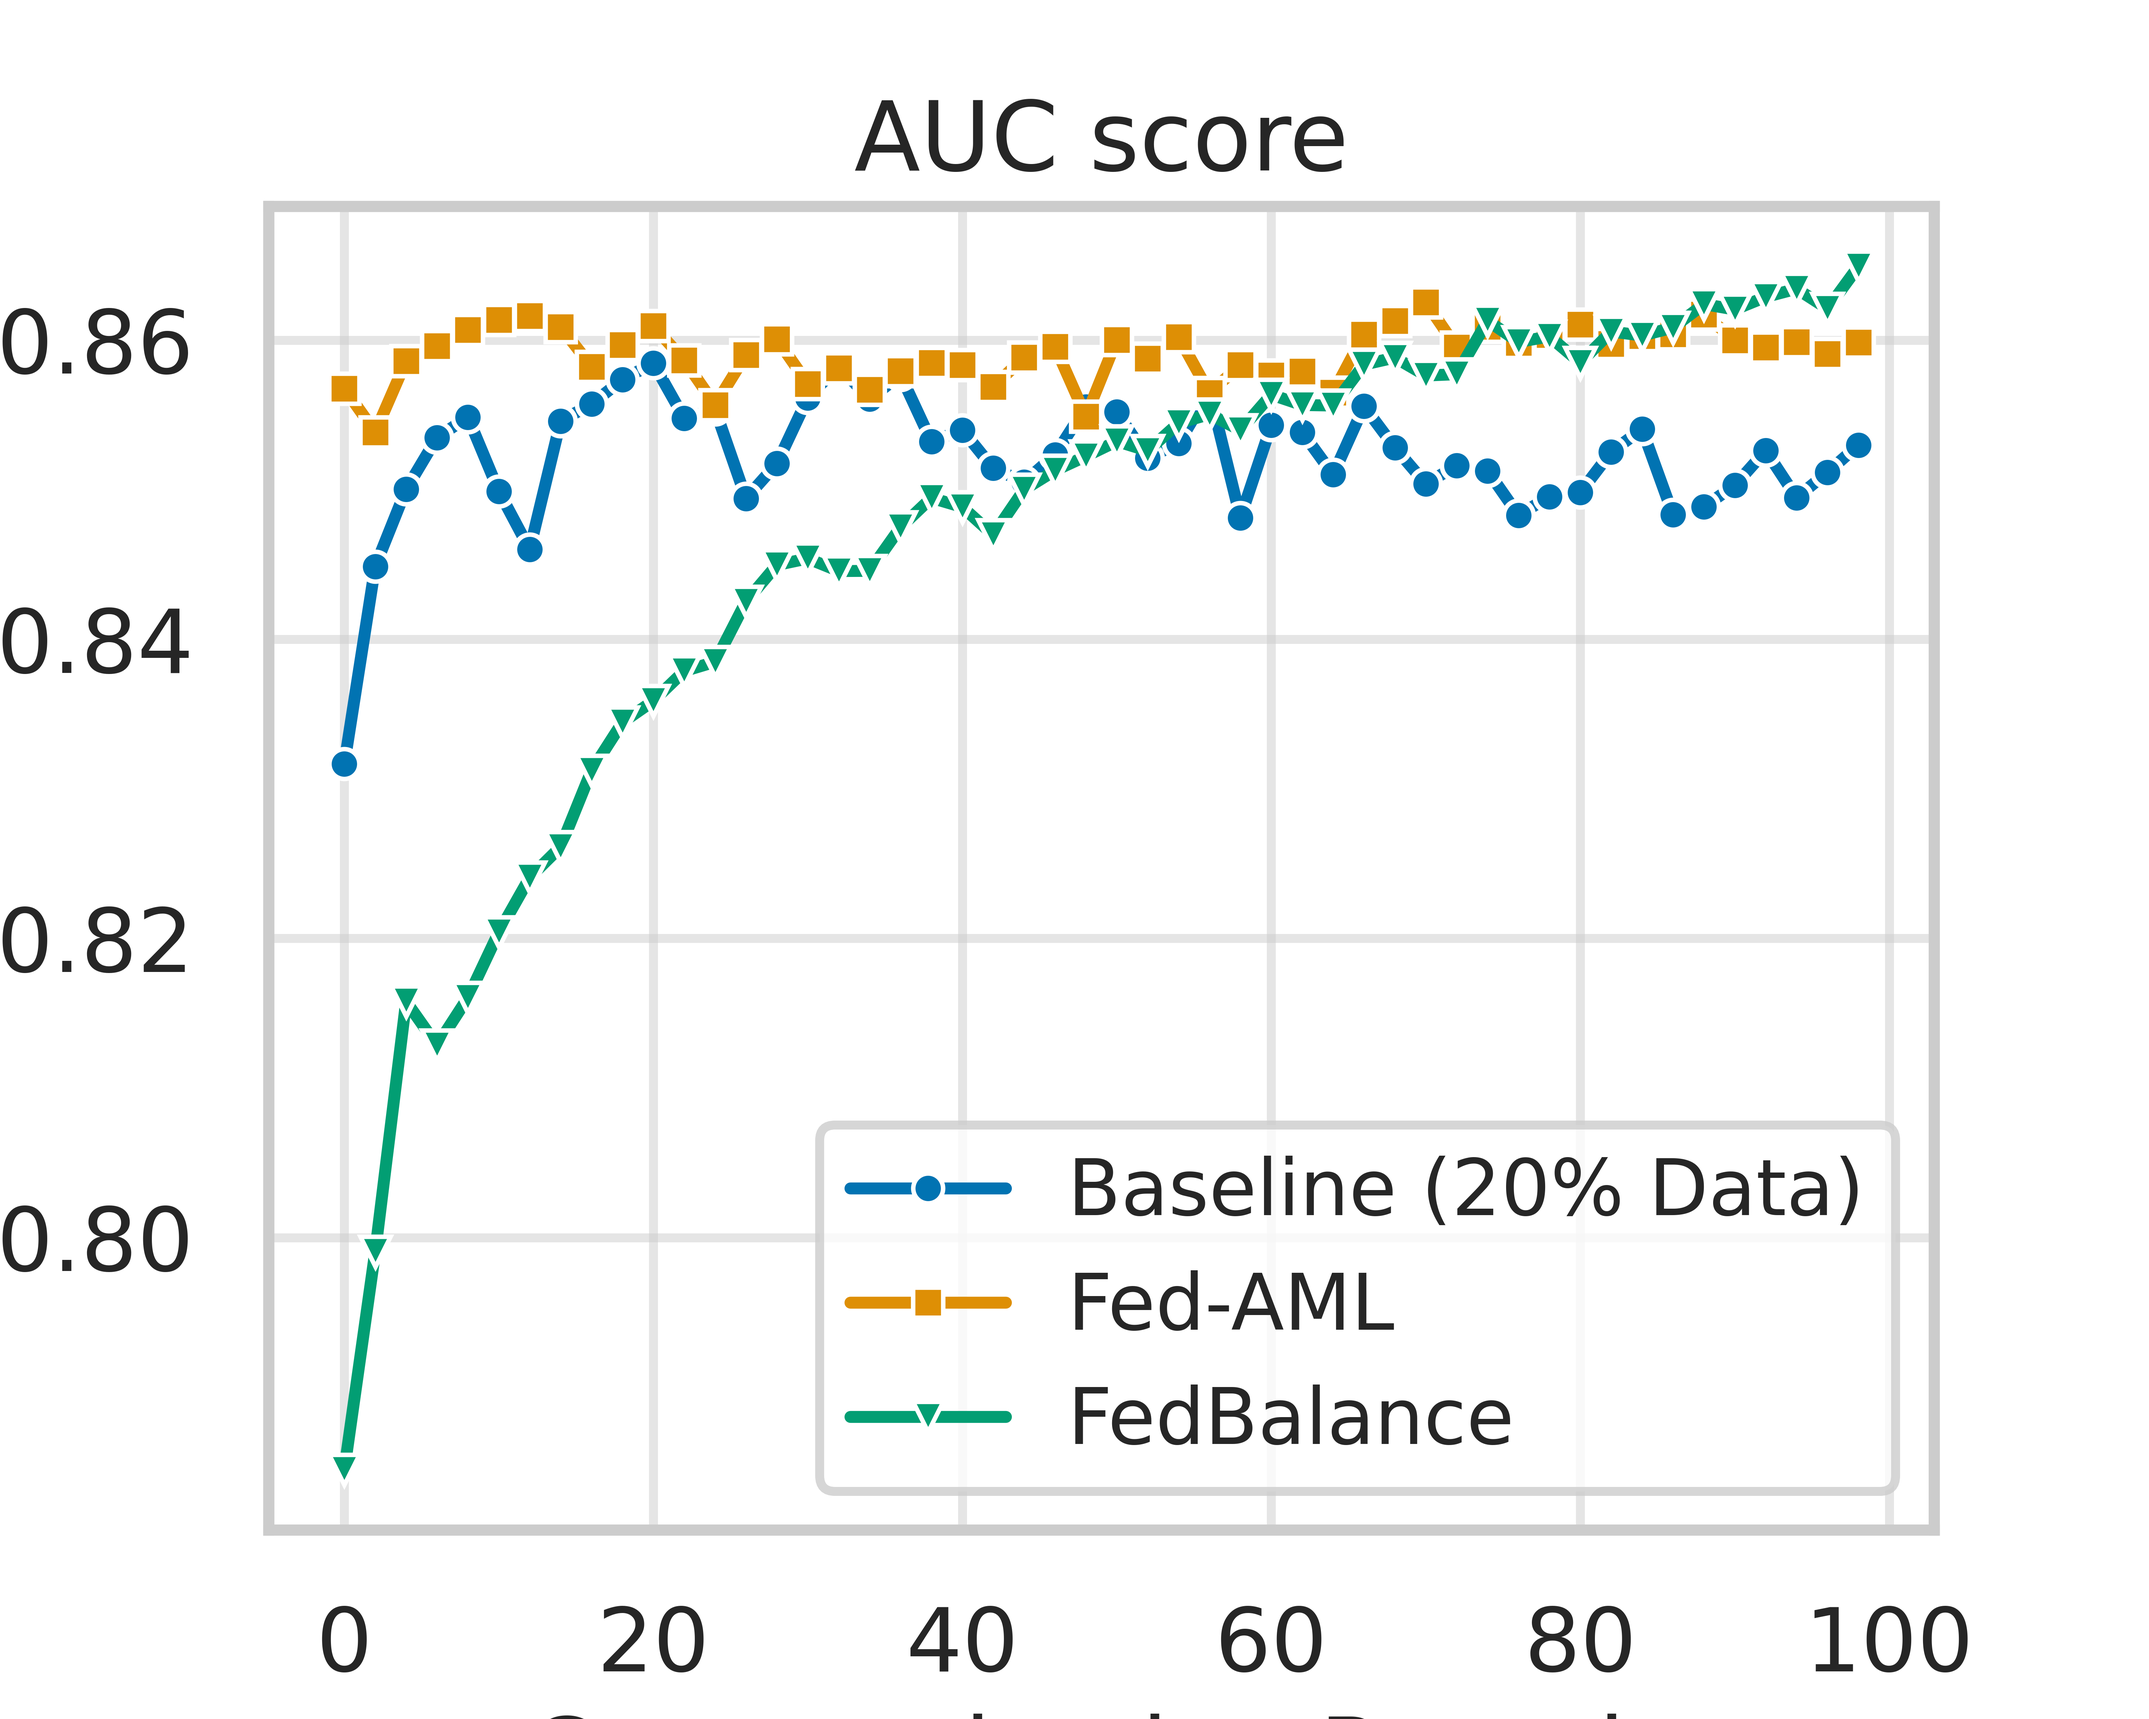
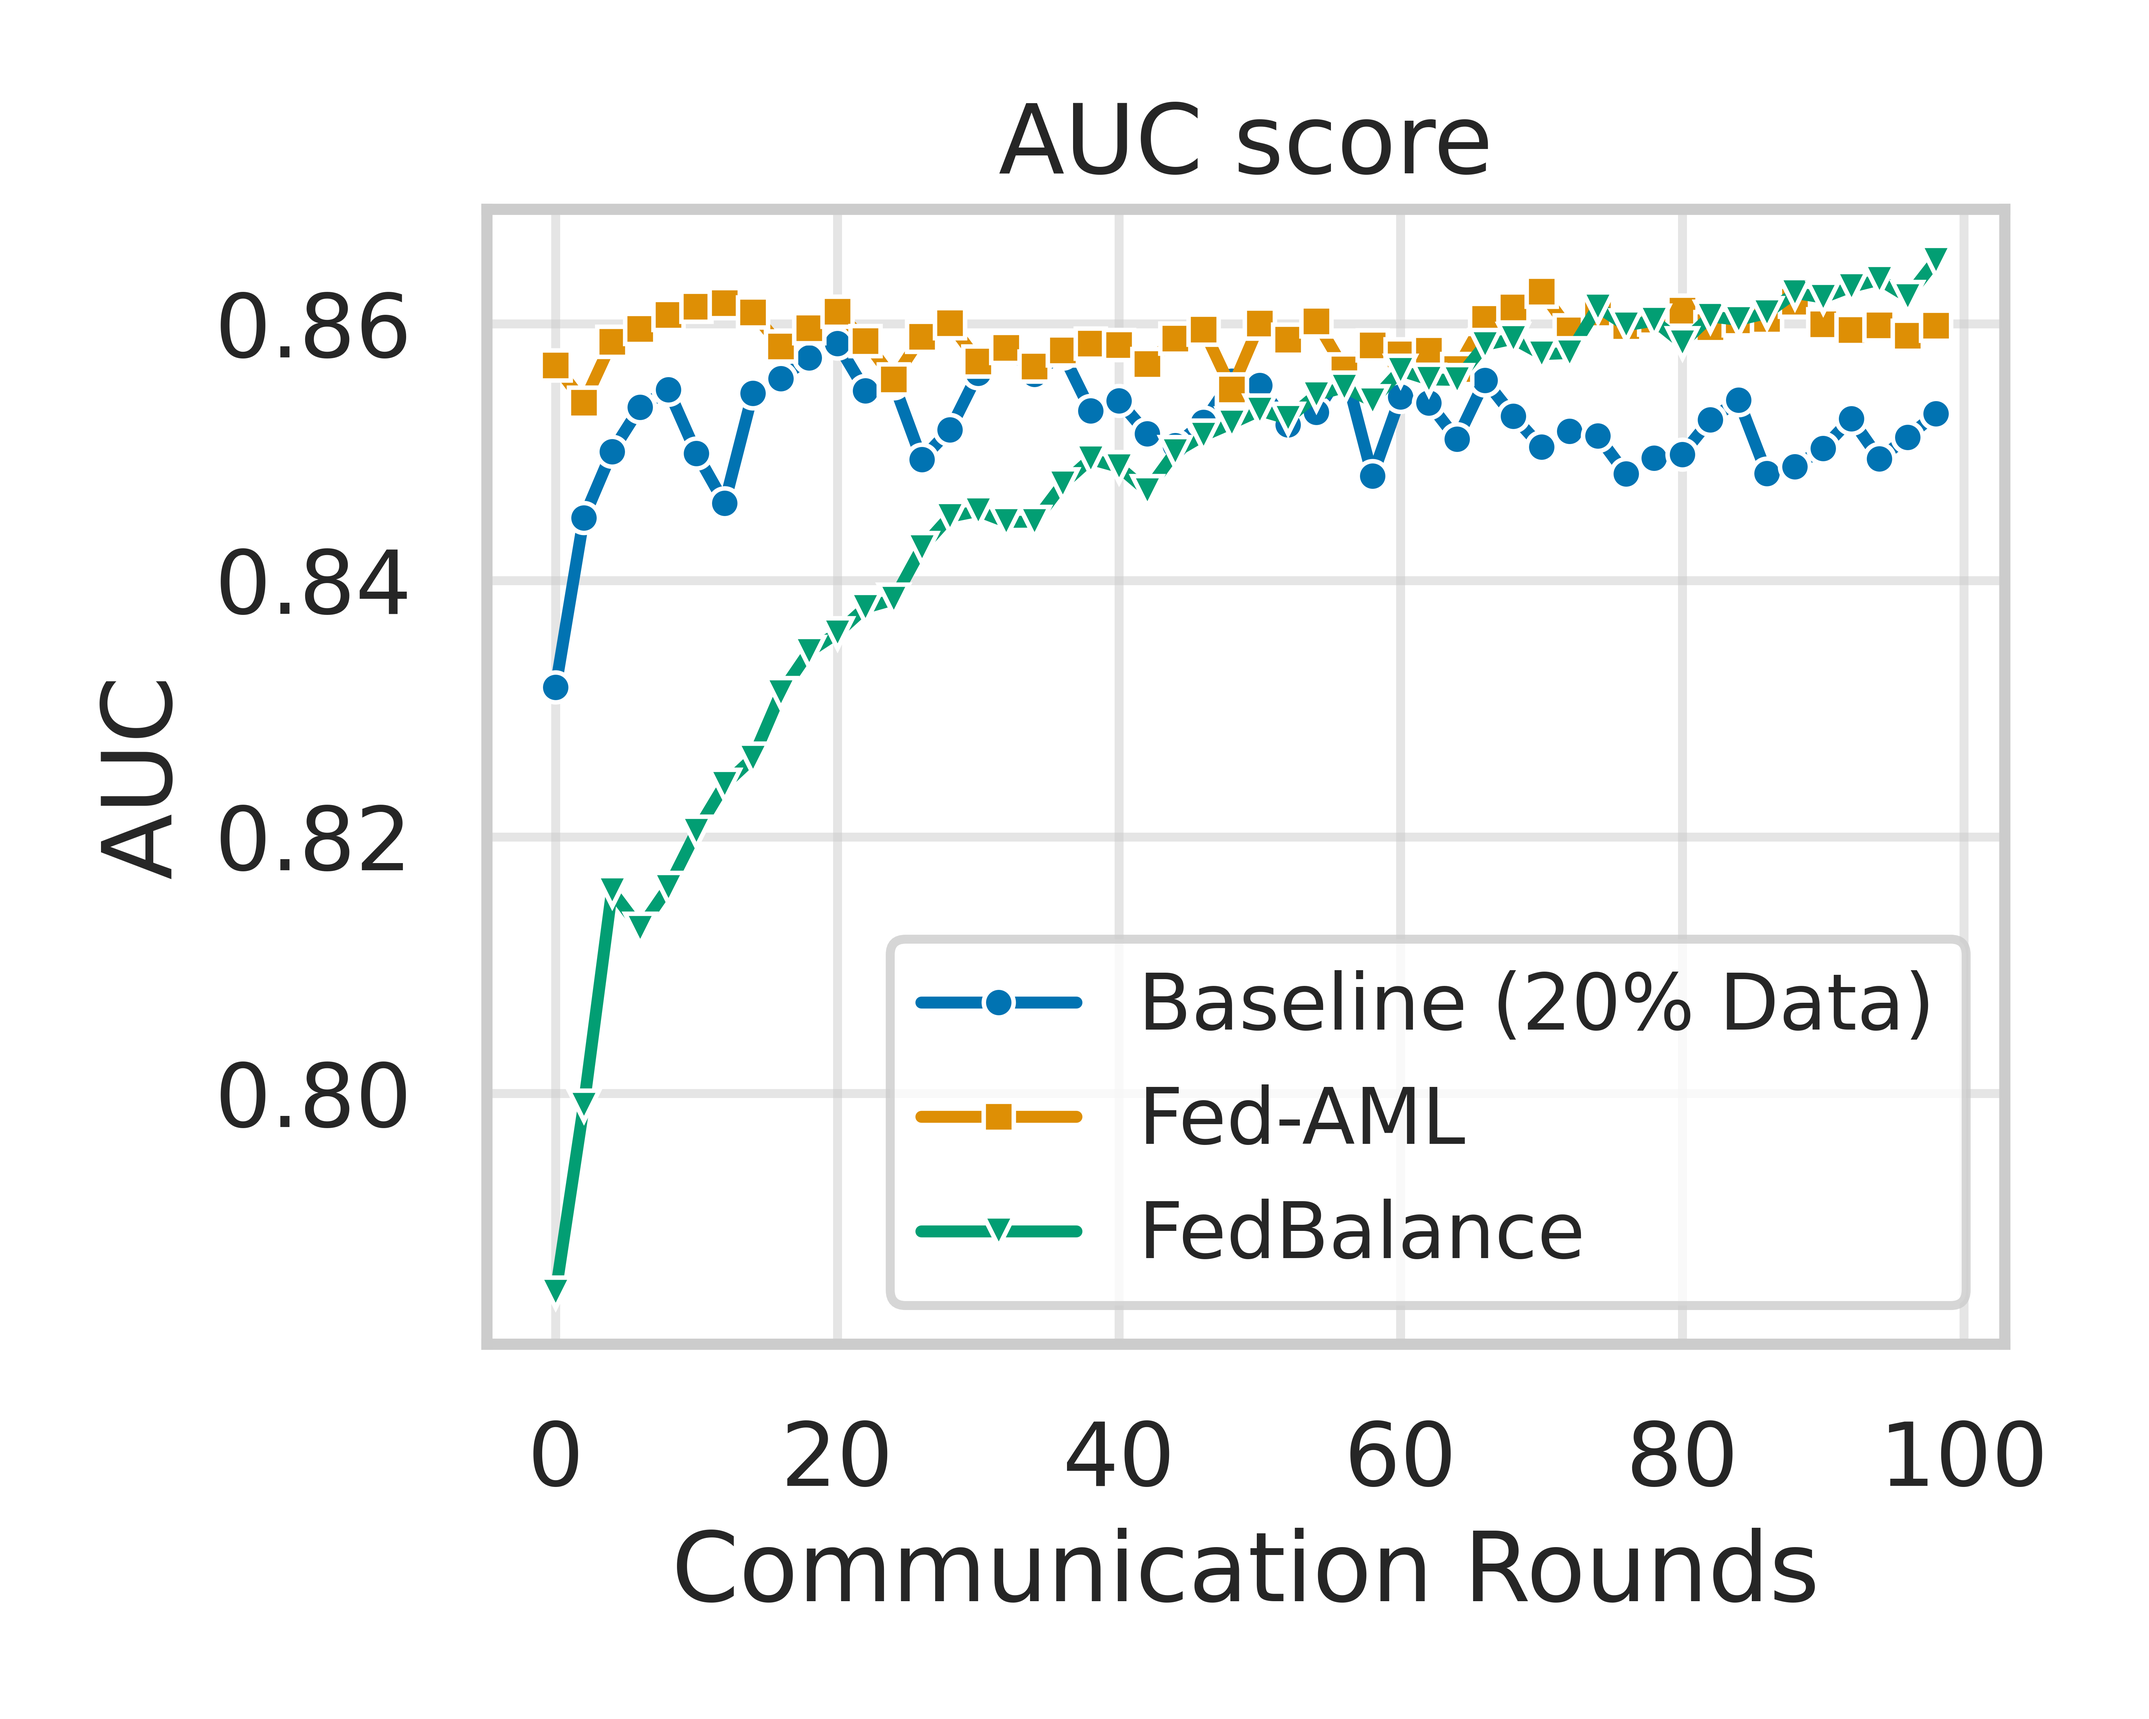
Research trhust 1 complete

diff --git a/README.md b/README.md
@@ -40,19 +40,86 @@ pip install -r requirements.txt
 
 
 
-## Dataset 
+## Dataset
+
+### 1⃣ UCF-Crime Dataset 
+
+We use the **UCF-Crime dataset** for video-based anomaly detection.
+
+📥 **Download from the official source:**
+
+https://www.kaggle.com/datasets/odins0n/ucf-crime-dataset
+
+---
+
+### ⚠ Dataset Imbalance
+
+The UCF-Crime dataset is **highly imbalanced**, with several crime categories significantly underrepresented compared to others.
+
+Below is the class distribution visualization:
+
+![Class Distribution](src/class_counts.png)
+
+The severe imbalance motivates our **Federated Data Rebalancing (FedBalance)** strategy introduced in **Research Thrust 1**, which explicitly addresses label scarcity and skewed class distributions in decentralized environments.
+
 
 
 # 🔹 Research Thrust 1  
-## Federated Data Rebalancing and Meta-learning
+## Federated Data Rebalancing 
 
-### Objective
+To better simulate **real‑world data scarcity**, we use **20% of data** from UCF crime dataset and treat the remaining samples as **unlabeled**.
 
-Train federated models that classify crime categories from:
+- **Baselines (centralized / non‑federated)**: trained on only **20% of the dataset** to mirror limited labeled data in practice.
+- **FedBalance**: uses **20% labeled data per client** and leverages the remaining **80% as unlabeled data**.
 
-1. **Video frames (UCF-Crime dataset[https://www.kaggle.com/datasets/odins0n/ucf-crime-dataset])**
+### Run FedBalance
 
-The models output:
+```
+bash runbalance.sh
+```
+## Federated Adaptive Meta Learning
+
+To simulate **real-world data scarcity**, we train the model using only **20% of the labeled data**.  
+This setup reflects practical deployment scenarios where labeled surveillance data is limited and unevenly distributed across clients.
+
+Federated Adaptive Meta Learning enables the model to quickly adapt to client-specific distributions while maintaining robust global generalization under constrained supervision.
+
+### Run Federated Adaptive Meta Learning
+
+```bash
+bash run_meta.sh
+```
+
+## Experimental Results
+
+
+We evaluate the models using:
+
+- **AUC (Area Under ROC Curve)**
+- **F1 Score**
+
+
+We evaluate performance using **AUC** and **F1 score**, as both are well-suited for surveillance-based crime detection under severe class imbalance. **AUC** measures the model’s overall ability to distinguish between crime and non-crime events across all decision thresholds, making it robust to threshold selection and imbalance. **F1 score** balances precision and recall, ensuring the system both detects crime events (high recall) and minimizes false alarms (high precision). Together, these metrics provide a reliable assessment of discrimination capability and practical alert quality in real-world surveillance scenarios.
+
+All experiments are conducted under the **20% labeled data constraint** to simulate realistic data scarcity.
+
+<img src="training_loss.png" width="350"> <img src="auc_score.png" width="350">
+<img src="f1_score.png" width="350">
+
+Overall, Across both **AUC** and **F1 metrics**, **FedBalance and Fed-AML performs better than the baseline** , especially under:
+
+- Limited labeled data (20%)
+- Severe class imbalance
+- Federated decentralized training
+
+
+
+
+
+
+
+From the project root:
+
 
 
 
